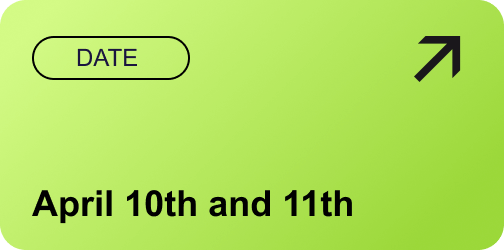
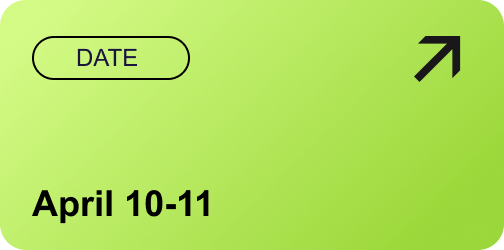
change open-innovations-2024-en

Changed region(s): [[0.3274, 0.756, 0.5357, 0.868], [0.5655, 0.756, 0.7143, 0.868]]

diff --git a/open-innovations-2024/Открытые инновации 2024-en.html b/open-innovations-2024/Открытые инновации 2024-en.html
@@ -89,7 +89,7 @@
                                             <td style="width: 640px;">
                                                 <a href="https://openinnovations.ru/registration/email?utm_source=email_in&utm_medium=letter&utm_campaign=1" target="_blank">
                                                     <img
-                                                            alt="When: April 10 and 11. Where: Skolkovo Technopark. Technologies As the Key to Sovereignty OPEN INNOVATIONS 2024"
+                                                            alt="When: April 10-11. Where: Skolkovo Technopark. Technologies As the Key to Sovereignty OPEN INNOVATIONS 2024"
                                                             height="auto"
                                                             src="https://cp.unisender.com/ru/user_file?resource=images&user_id=5608985&name=open-innovations-reload-hero-en.png"
                                                             style="border: 0; display: block; outline: 0; text-decoration: none; height: auto; width: 100%; font-size: 13px;color:#FFFFFF;"
